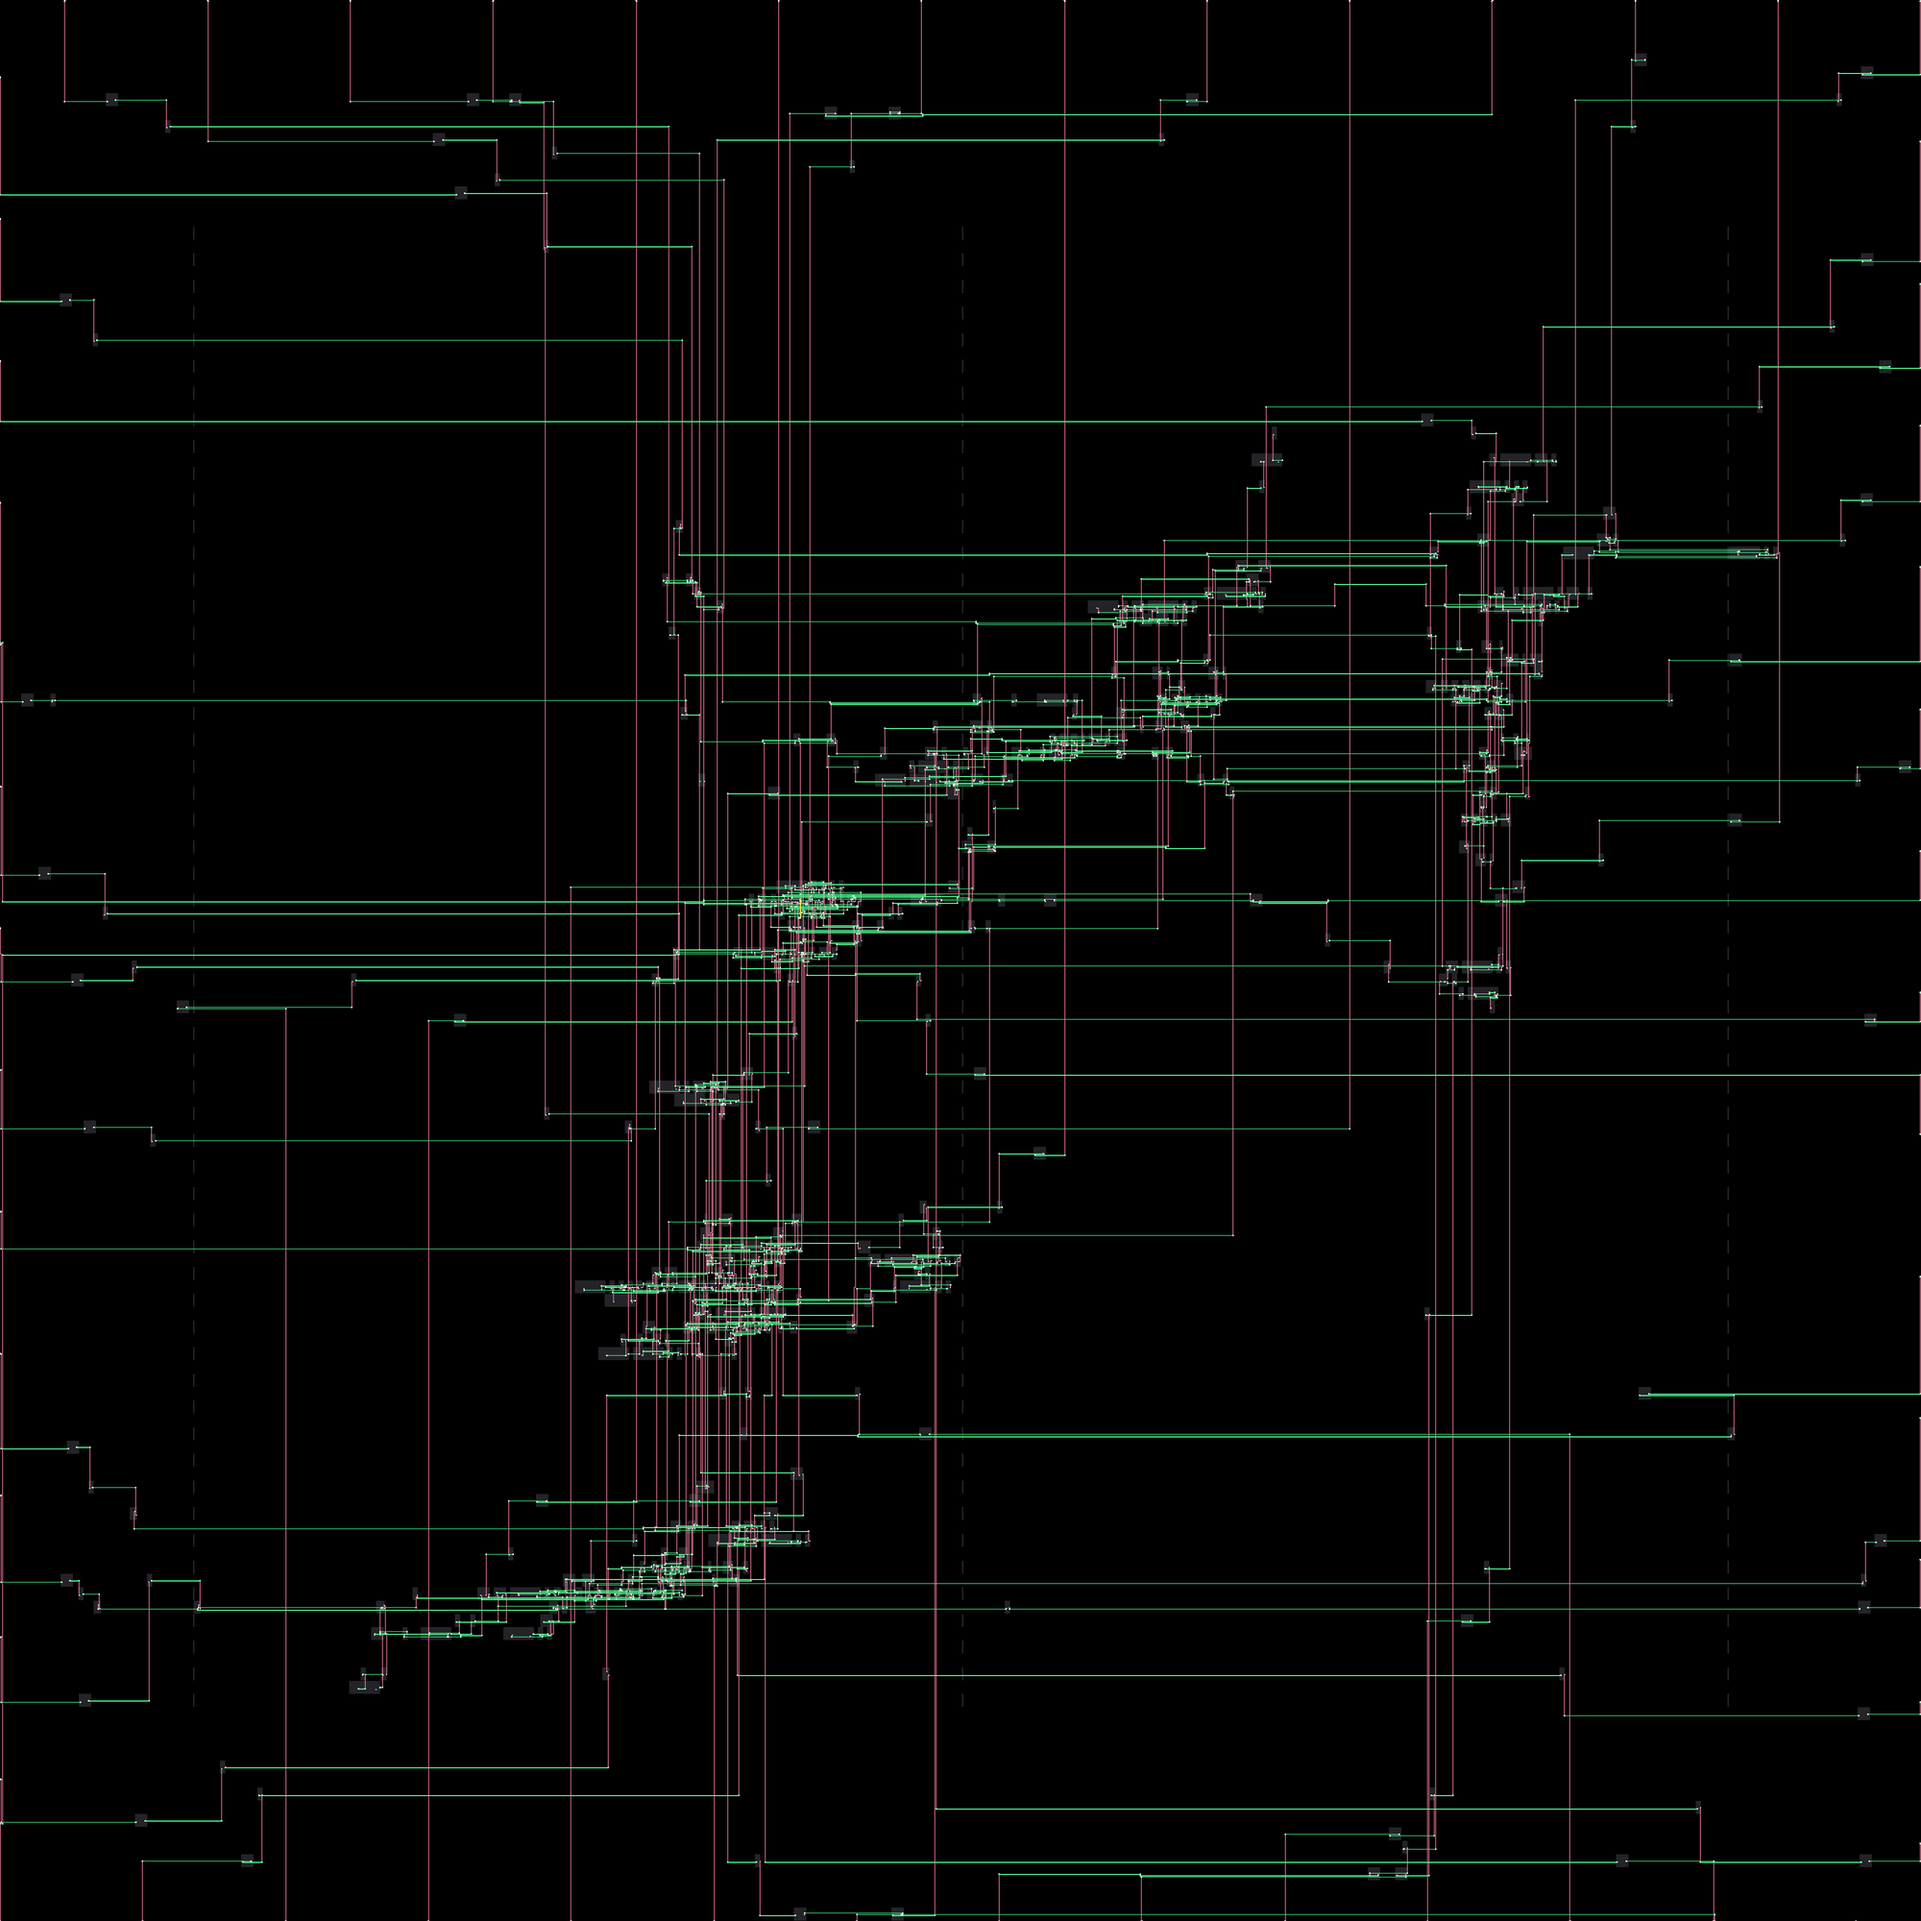
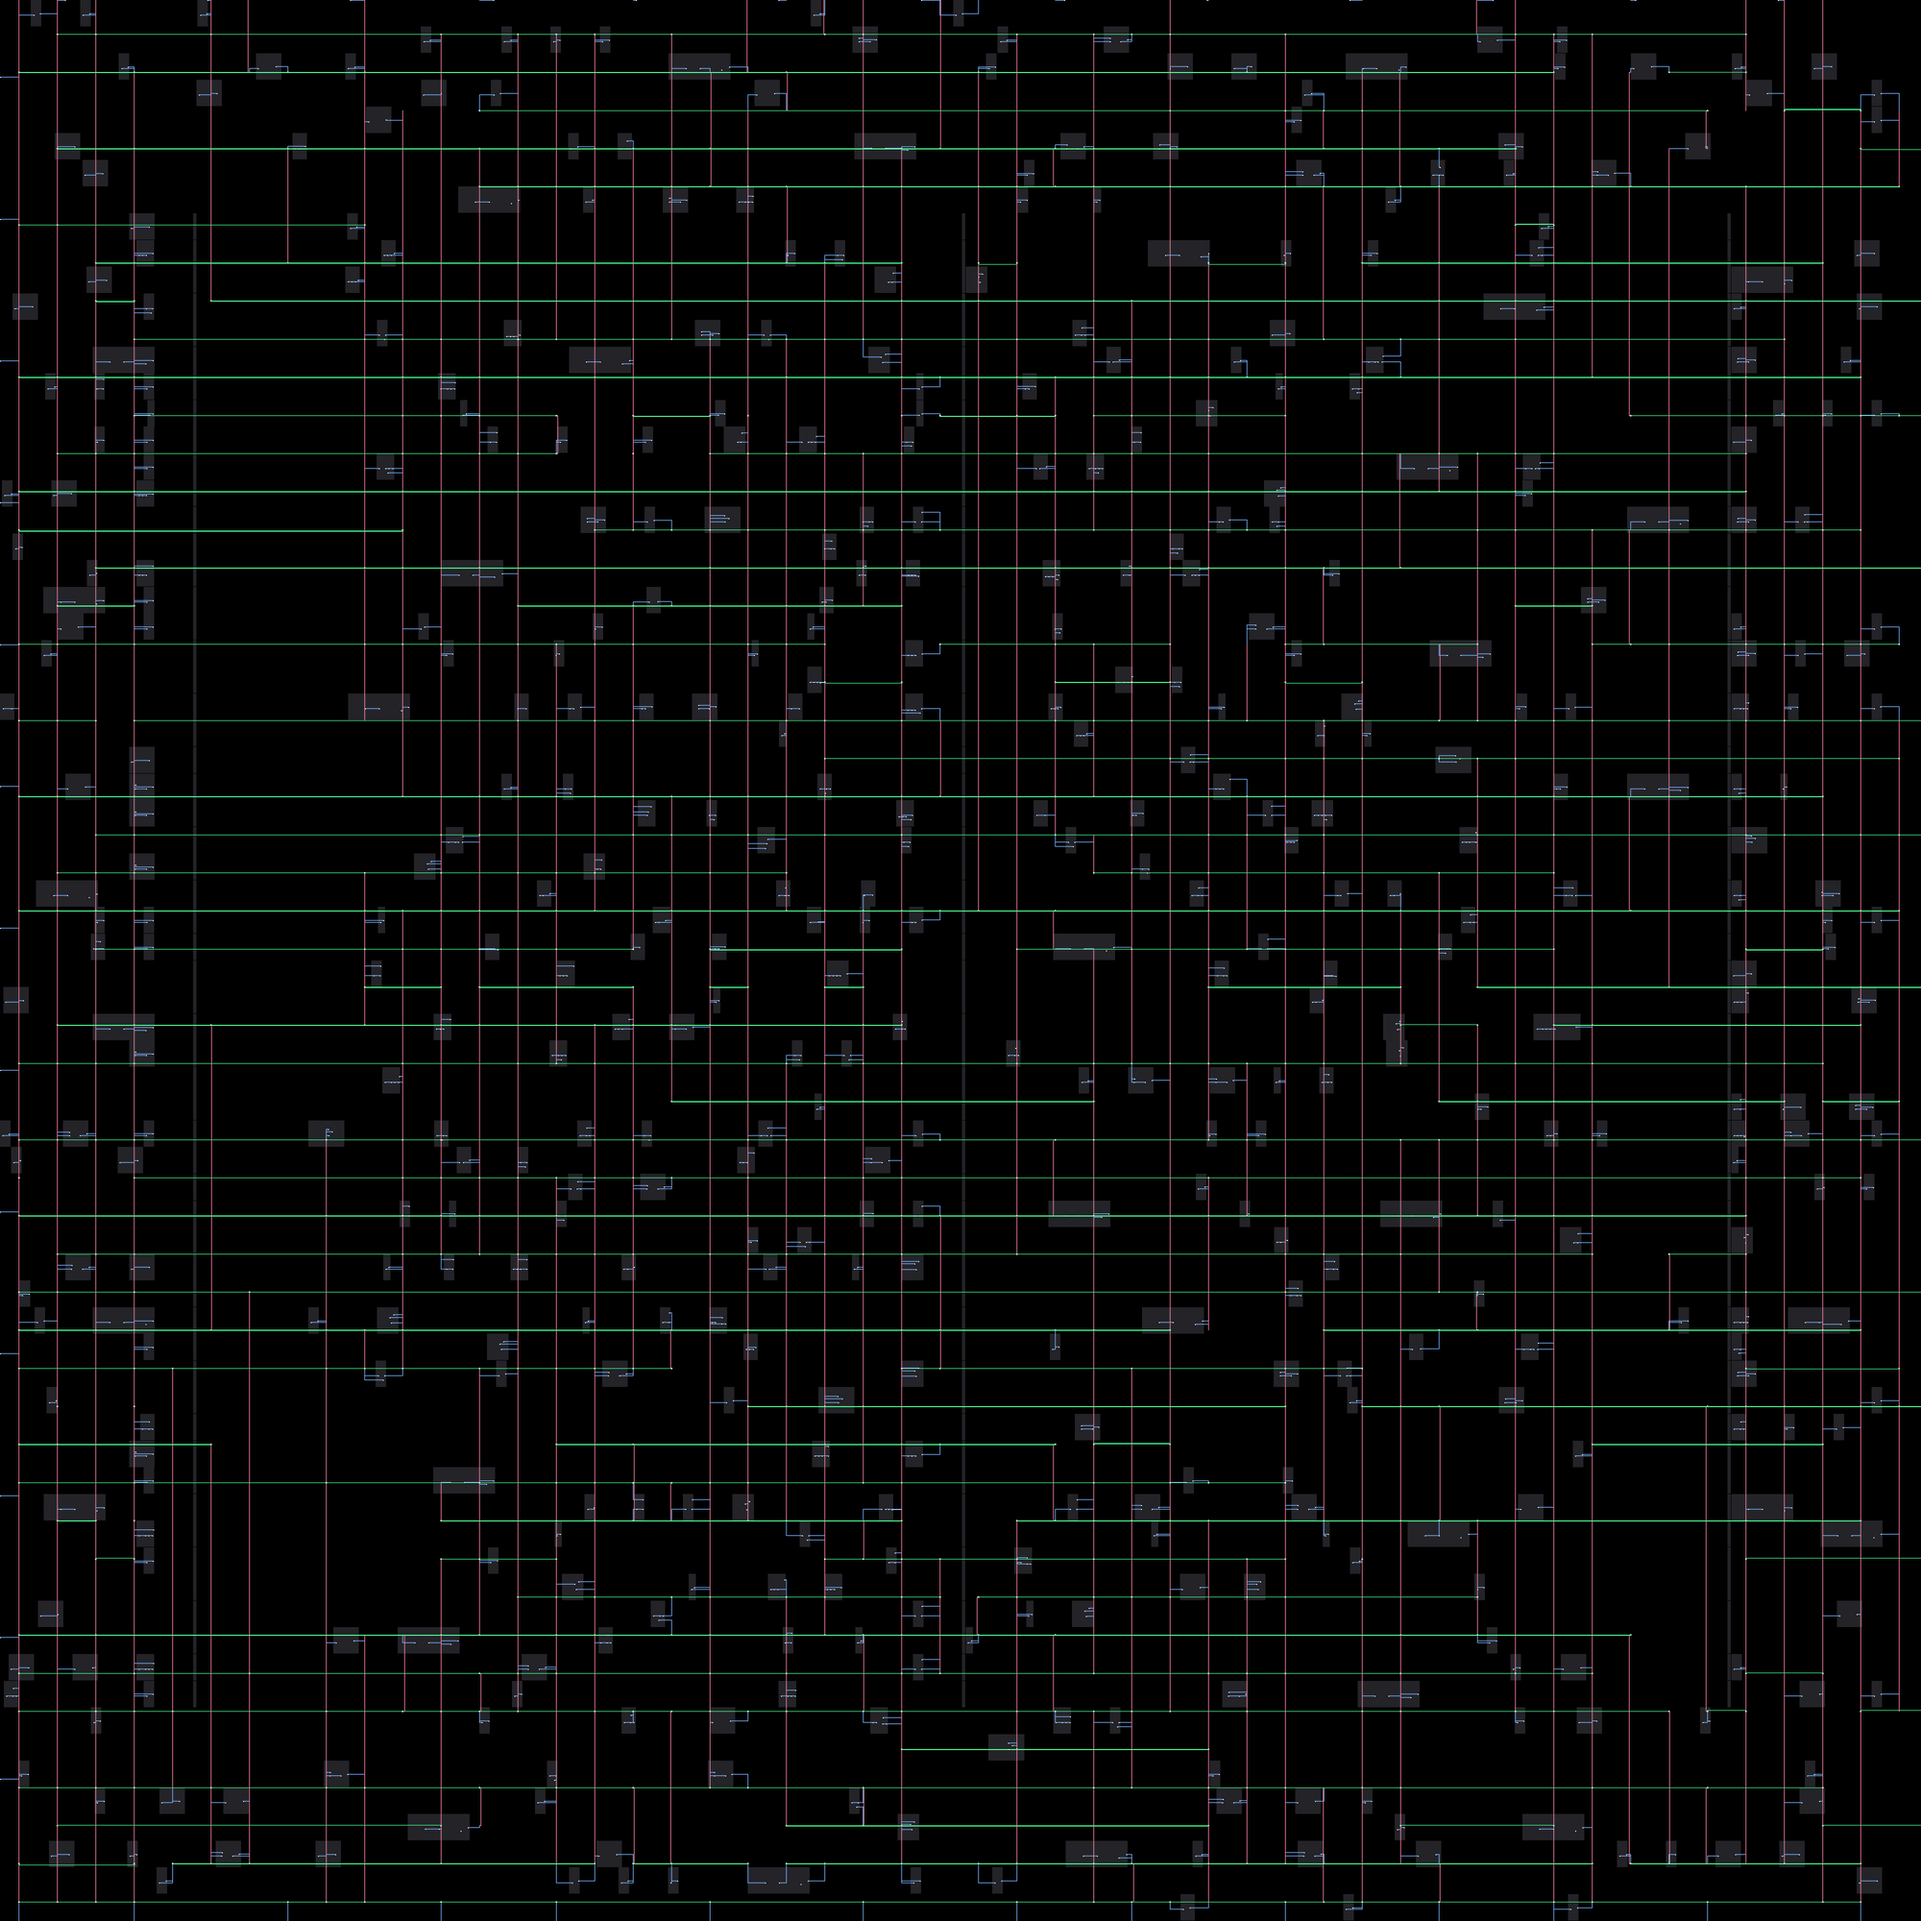
Update the README benchmarks and images from current runs

diff --git a/README.md b/README.md
@@ -1,8 +1,8 @@
 # PARE — Placement And Routing Engine
 
-A digital IC placement and routing engine written in Rust. Implements the full physical design flow — analytical global placement, Abacus legalization, and two-stage negotiation-based routing — from scratch. Successfully places and routes real benchmarks up to 145k cells / 143k nets with no shorts or opens.
+A digital IC placement and routing engine written in Rust. Implements the full physical design flow — analytical global placement, Abacus legalization, and two-stage negotiation-based routing — from scratch. It places and routes real benchmarks up to 145k cells / 143k nets, and routes pre-placed designs up to 313k cells / 407k nets, with no shorts or opens.
 
-| IBM10 (64,227 nets) | AES (51,671 nets) |
+| IBM10 (64,227 nets) | AES (45,036 nets) |
 |:---:|:---:|
 | ![IBM10 Routing](assets/routed_ibm10.png) | ![AES Routing](assets/routed_aes.png) |
 
@@ -10,7 +10,7 @@ A digital IC placement and routing engine written in Rust. Implements the full p
 |:---:|:---:|
 | ![IBM05 Routing](assets/routed_ibm05.png) | ![IBM01 Routing](assets/routed_ibm01.png) |
 
-*Top: IBM10 ISPD benchmark (67k cells, 49% utilization) and AES cipher (Nangate45, 10 metal layers). Bottom: IBM05 (80% utilization) and IBM01. All verified short-free and open-free.*
+*Top: IBM10 ISPD benchmark (67k cells) and AES cipher (Nangate45, 10 metal layers). Bottom: IBM05 and IBM01. All verified short-free and open-free.*
 
 ---
 
@@ -123,19 +123,21 @@ Type-safe index newtypes (`CellId`, `NetId`, `PinId`) prevent accidental index c
 
 ## Performance
 
-| Benchmark | Cells | Nets | Utilization | Layers | Time | Result |
-|---|---|---|---|---|---|---|
-| GCD | 579 | 579 | 27% | 10 (Nangate45) | 0.4s | No shorts/opens |
-| IBM01 | 12,506 | 11,507 | 85% | 6 (Bookshelf) | 4.1s | No shorts/opens |
-| AES | 20,533 | 51,671 | 5% | 10 (Nangate45) | 12.6s | No shorts/opens |
-| IBM05 | 28,146 | 28,446 | 80% | 6 (Bookshelf) | 11.3s | No shorts/opens |
-| IBM10 | 67,692 | 64,227 | 49% | 6 (Bookshelf) | 42.8s | No shorts/opens |
-| IBM13 | 81,056 | 84,199 | 40% | 6 (Bookshelf) | 63.5s | No shorts/opens |
-| IBM14 | 145,492 | 143,202 | 49% | 6 (Bookshelf) | 368.3s | No shorts/opens |
-| Netcard | 252,978 | 290,354 | 43% | 10 (Nangate45) | 91.7s | No shorts/opens |
-| Leon3mp | 312,529 | 406,912 | 53% | 10 (Nangate45) | 29.0s | No shorts/opens |
+| Benchmark | Flow | Cells | Nets | Utilization | Layers | Time | Peak memory | Result |
+|---|---|---|---|---|---|---|---|---|
+| GCD | place + route | 508 | 579 | 7% | 10 (Nangate45) | 0.4s | 0.4 GB | No shorts/opens |
+| IBM01 | place + route | 12,036 | 11,507 | 49% | 6 (Bookshelf) | 17.9s | 0.7 GB | No shorts/opens |
+| AES | place + route | 44,749 | 45,036 | 4% | 10 (Nangate45) | 7.0s | 0.9 GB | No shorts/opens |
+| IBM05 | place + route | 28,146 | 28,446 | 49% | 6 (Bookshelf) | 109s | 2.1 GB | No shorts/opens |
+| IBM10 | place + route | 66,948 | 64,227 | 49% | 6 (Bookshelf) | 187s | 10.3 GB | No shorts/opens |
+| IBM13 | place + route | 81,018 | 83,806 | 49% | 6 (Bookshelf) | 308s | 13.7 GB | No shorts/opens |
+| IBM14 | place + route | 145,492 | 143,202 | 49% | 6 (Bookshelf) | 460s | 28.9 GB | No shorts/opens |
+| Netcard | route only | 274,700 | 290,354 | — | 10 (Nangate45) | 114s | 2.8 GB | No shorts/opens |
+| Leon3mp | route only | 312,529 | 406,912 | — | 10 (Nangate45) | 32.5s | 2.4 GB | No shorts/opens |
 
-All benchmarks are real circuits (ISPD or open-source RTL), not synthetic. Leon3mp is the largest — 313k cells with 407k nets, routed in 29s. Netcard has 253k cells with 290k nets including a 67k-pin power net. IBM14 has 145k cells with 143k nets. IBM05 runs at 80% utilization with complex multi-pin nets. AES uses a real technology library (Nangate45) with 10 metal layers at realistic pitches.
+Measured on a 28-thread machine. Utilization is movable cell area over die area; the Bookshelf dies include the gaps between rows. Netcard and Leon3mp ship already placed, so only routing runs on them. Routing keeps search state per worker thread, so its memory grows with the thread count. The routed result can differ slightly between runs because nets are routed in parallel.
+
+All benchmarks are real circuits (ISPD or open-source RTL), not synthetic. Leon3mp is the largest, with 313k cells and 407k nets routed in 33s. IBM14 is the largest placed from scratch, with 145k cells and 143k nets. AES uses a real technology library (Nangate45) with 10 metal layers at realistic pitches.
 
 ---
 
